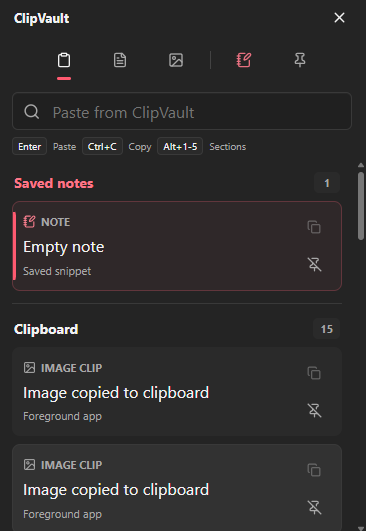
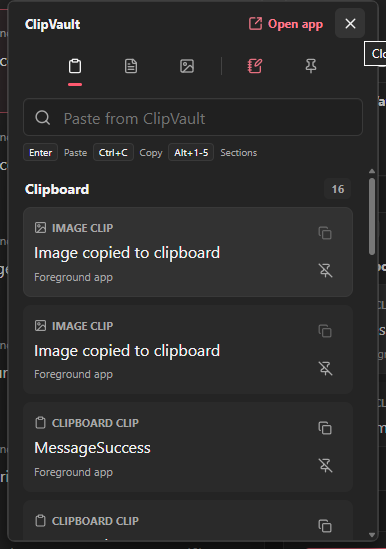
Update README screenshots

diff --git a/README.md b/README.md
@@ -4,6 +4,10 @@ ClipVault is a modern lightweight Windows clipboard manager with encrypted local
 
 It captures text and images, gives you a fast `Ctrl+Shift+V` quick paste popup, lets you save reusable notes/snippets, and keeps all content local.
 
+## Screenshots
+
+![ClipVault main window](docs/assets/main-window.png)
+
 ![ClipVault quick paste popup](docs/assets/quick-paste-popup.png)
 
 ## Features